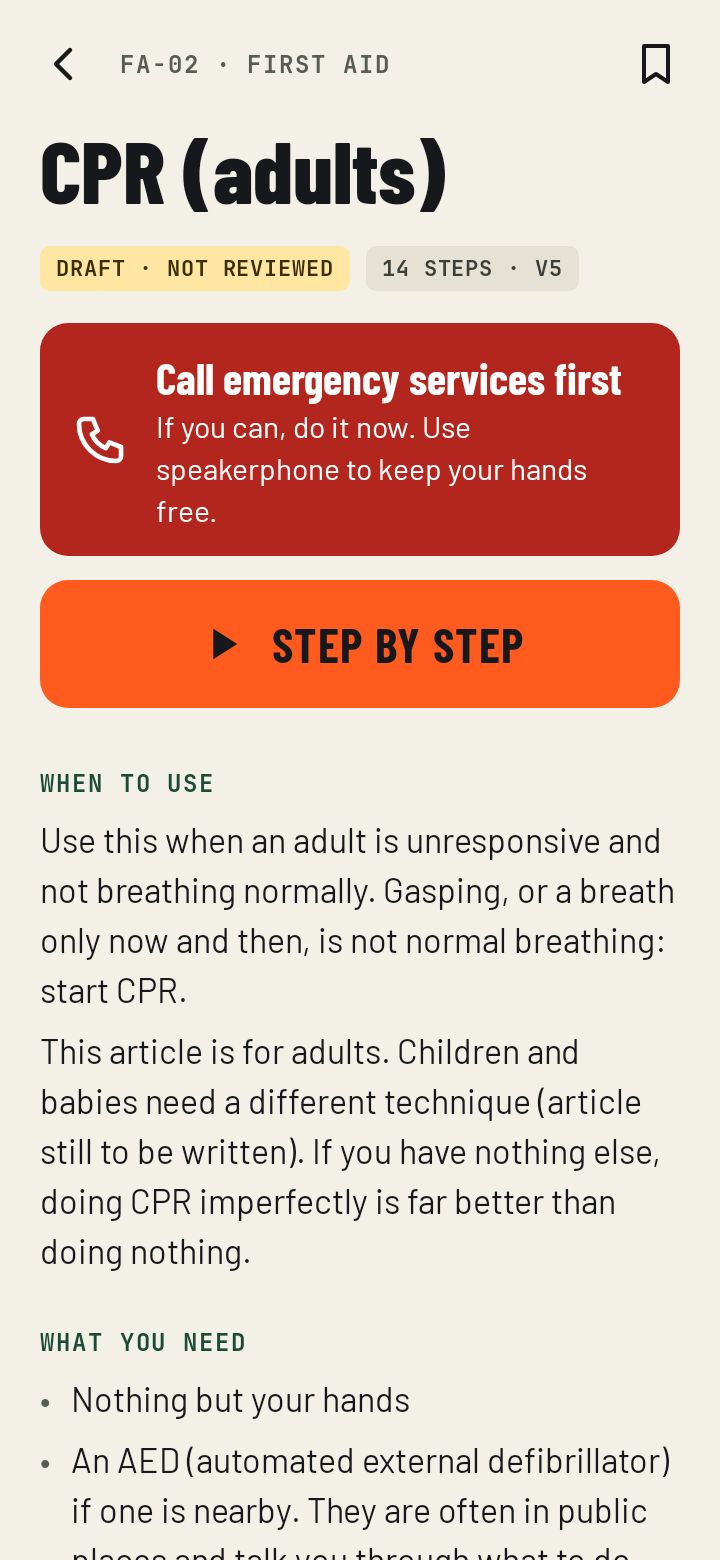
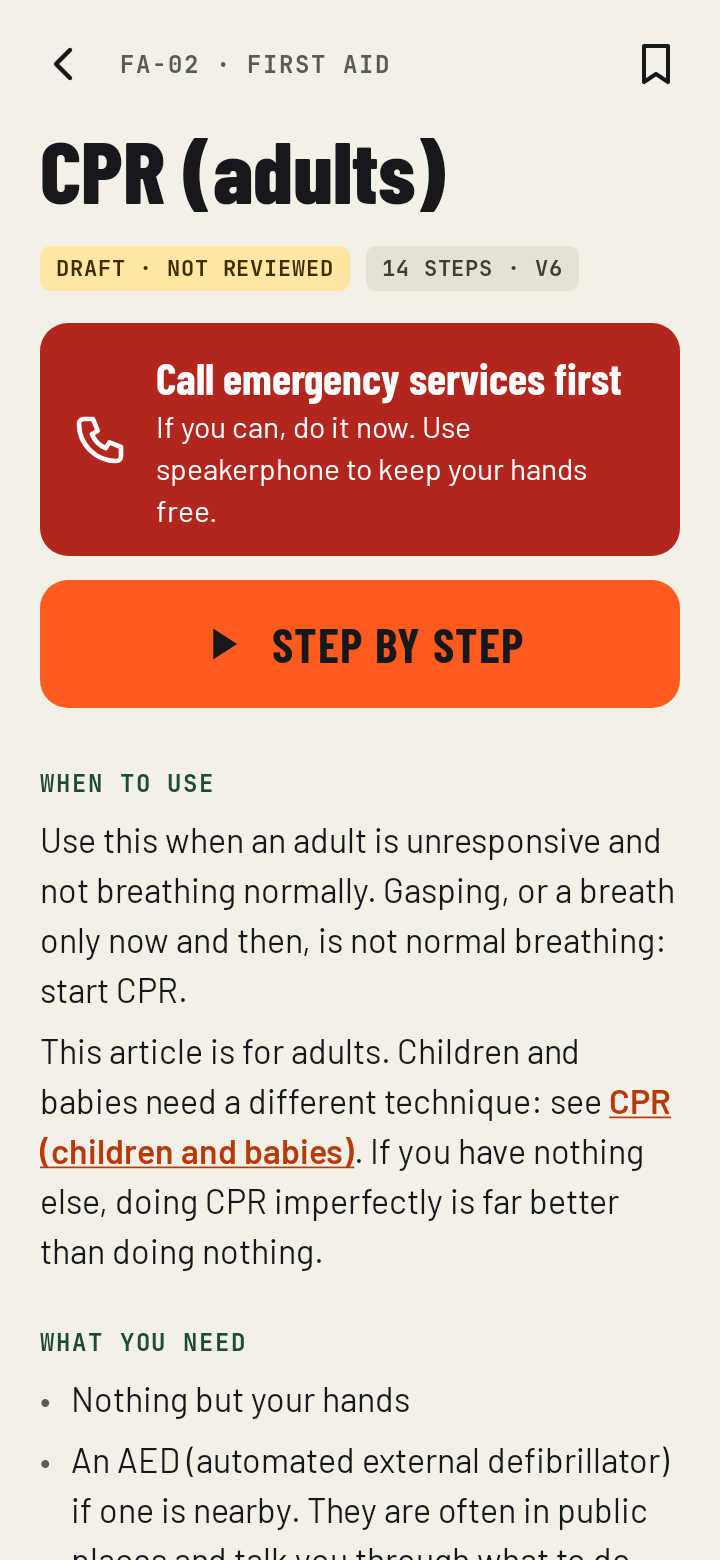
Link adult CPR to child CPR, and boiling water to bleach
Both articles still said the other article was yet to be written.
Translations updated with them.

Claude-Session: https://claude.ai/code/session_01Jb7VzuWtb7rsGemBPkMZUa

Changed region(s): [[0.0611, 0.6769, 0.9167, 0.8308]]

diff --git a/knowledge/articles/water/boiling-water.nb.md b/knowledge/articles/water/boiling-water.nb.md
@@ -1,10 +1,10 @@
 ---
 id: boiling-water
 lang: nb
-translation_of: 3
+translation_of: 4
 title: Gjøre vann trygt ved koking
 status: draft
-version: 1
+version: 2
 license: CC-BY-4.0
 situations:
   - vann fra elv, innsjø eller bekk må gjøres trygt å drikke
@@ -48,7 +48,7 @@ Bruk dette når du må drikke vann som kan inneholde smittestoffer: fra elver, i
 ## Advarsler
 
 - Koking dreper smittestoffer, men fjerner ikke kjemikalier, drivstoff, salt eller tungmetaller. Ikke stol på koking for vann som kan være forurenset av kjemikalier eller flomvann fra industriområder.
-- Hvis du ikke kan koke vannet, se andre rensemetoder (kommer senere).
+- Hvis du ikke kan koke vannet, se [Desinfisere vann med klor](article:bleach-water).
 - Vær forsiktig med kokende vann så du ikke skålder deg. Se [Brannskader og skålding](article:burns).
 
 ## Vanlige feil

diff --git a/knowledge/articles/first-aid/cpr.md b/knowledge/articles/first-aid/cpr.md
@@ -5,7 +5,7 @@ category: first-aid
 code: FA-02
 icon: heart-pulse
 status: draft
-version: 5
+version: 6
 high_risk: true
 emergency: true
 # Beat guide in step-by-step mode for the compression steps (sources: 100-120 a minute).
@@ -36,7 +36,7 @@ review:
 
 Use this when an adult is unresponsive and not breathing normally. Gasping, or a breath only now and then, is not normal breathing: start CPR.
 
-This article is for adults. Children and babies need a different technique (article still to be written). If you have nothing else, doing CPR imperfectly is far better than doing nothing.
+This article is for adults. Children and babies need a different technique: see [CPR (children and babies)](article:cpr-children). If you have nothing else, doing CPR imperfectly is far better than doing nothing.
 
 ## What you need
 

diff --git a/knowledge/articles/first-aid/cpr.nb.md b/knowledge/articles/first-aid/cpr.nb.md
@@ -1,10 +1,10 @@
 ---
 id: cpr
 lang: nb
-translation_of: 5
+translation_of: 6
 title: Hjerte-lunge-redning (voksne)
 status: draft
-version: 1
+version: 2
 license: CC-BY-4.0
 situations:
   - noen har falt om og puster ikke
@@ -31,7 +31,7 @@ review:
 
 Bruk dette når en voksen ikke reagerer og ikke puster normalt. Gisping, eller et pust bare nå og da, er ikke normal pust: start HLR.
 
-Denne artikkelen gjelder voksne. Barn og babyer trenger en annen teknikk (artikkel kommer senere). Hvis du ikke har noe annet, er ufullkommen HLR langt bedre enn å ikke gjøre noe.
+Denne artikkelen gjelder voksne. Barn og spedbarn trenger en annen teknikk: se [Hjerte-lunge-redning (barn og spedbarn)](article:cpr-children). Hvis du ikke har noe annet, er ufullkommen HLR langt bedre enn å ikke gjøre noe.
 
 ## Dette trenger du
 

diff --git a/knowledge/articles/water/boiling-water.md b/knowledge/articles/water/boiling-water.md
@@ -5,7 +5,7 @@ category: water
 code: WA-01
 icon: pot
 status: draft
-version: 3
+version: 4
 high_risk: false
 license: CC-BY-4.0
 situations:
@@ -53,7 +53,7 @@ Use this when you have to drink water that may contain germs: from rivers, lakes
 ## Warnings
 
 - Boiling kills germs but does not remove chemicals, fuel, salt or heavy metals. Do not rely on it for water that may be polluted by chemicals or floodwater from industrial areas.
-- If you cannot boil water, see other purification methods (to be added).
+- If you cannot boil water, see [Disinfecting water with bleach](article:bleach-water).
 - Handle boiling water carefully to avoid scalds. See [Burns and scalds](article:burns).
 
 ## Common mistakes
